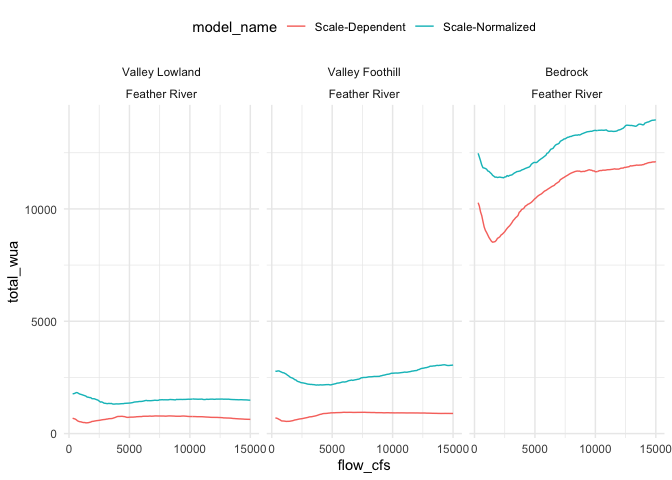
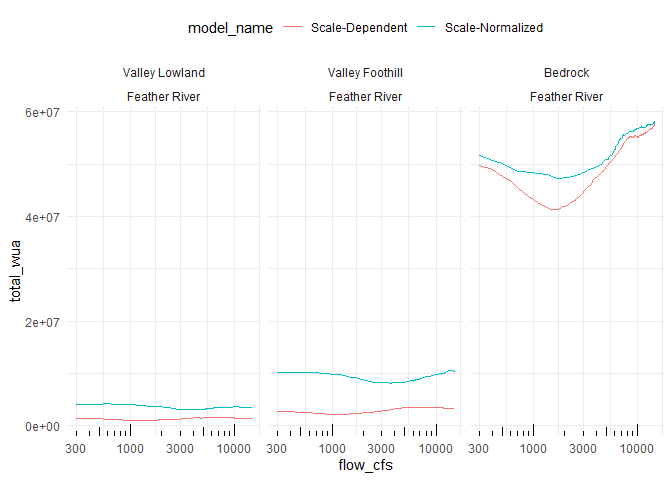
adding maps of wua estimates in both models; fixing total WUA calculation method; log scale

diff --git a/data-raw/scripts/model-type-comparison.md b/data-raw/scripts/model-type-comparison.md
@@ -18,21 +18,25 @@ at different geographic scales.
 ``` r
 # load the data
 
-wuas <- habistat::wua_predicted
+# wuas <- habistat::wua_predicted
+# 
+# hqt_gradient_class <- readRDS(here::here("data-raw", "results", "hqt_gradient_class.Rds"))
+# 
+# hqt_cls <- habistat::flowline_geom |>
+#   st_zm() |>
+#   st_transform("ESRI:102039") |> 
+#   st_point_on_surface() |>
+#   st_join(hqt_gradient_class) |>
+#   st_drop_geometry() |> 
+#   select(comid, hqt_gradient_class) |> 
+#   mutate(hqt_gradient_class = coalesce(hqt_gradient_class, "Bedrock"),
+#          hqt_gradient_class = factor(hqt_gradient_class, levels=c("Valley Lowland", "Valley Foothill", "Bedrock"))) 
+# 
+# wuas_merge <- wuas |> left_join(hqt_cls) |> glimpse()
 
-hqt_gradient_class <- readRDS(here::here("data-raw", "results", "hqt_gradient_class.Rds"))
-
-hqt_cls <- habistat::flowline_geom |>
-  st_zm() |>
-  st_transform("ESRI:102039") |> 
-  st_point_on_surface() |>
-  st_join(hqt_gradient_class) |>
-  st_drop_geometry() |> 
-  select(comid, hqt_gradient_class) |> 
-  mutate(hqt_gradient_class = coalesce(hqt_gradient_class, "Bedrock"),
-         hqt_gradient_class = factor(hqt_gradient_class, levels=c("Valley Lowland", "Valley Foothill", "Bedrock"))) 
-
-wuas_merge <- wuas |> left_join(hqt_cls) |> glimpse()
+wuas_merge <- habistat::wua_predicted |> 
+  left_join(habistat::flowline_attr |> select(comid, hqt_gradient_class)) |>
+  glimpse()
 ```
 
     ## Rows: 4,987,896
@@ -57,12 +61,13 @@ Explore the WUAs but different groups
 # SN = scale normalized
 # TODO: i want no post-hoc baseflow removal, is this logic correct?
 rearing_wua_grouped <- wuas_merge |> 
-  filter(model_bfc == TRUE,
+  filter(model_bfc == FALSE, # FALSE = training data does not have baseflow channel = baseflow channel was removed
          habitat == "rearing") |> 
   mutate(model_name = case_when(model_name == "SD" ~ "Scale-Dependent",
-                                model_name == "SN" ~ "Scale-Normalized")) |> 
+                                model_name == "SN" ~ "Scale-Normalized"),
+         total_wua = wua_per_lf_pred * reach_length_ft) |> 
   group_by(model_name, flow_cfs, watershed_level_3, habitat, hqt_gradient_class) |> 
-  summarise(total_wua = sum(wua_per_lf_pred))
+  summarise(total_wua = sum(total_wua))
 ```
 
     ## `summarise()` has grouped output by 'model_name', 'flow_cfs',
@@ -76,6 +81,7 @@ rearing_wua_grouped |>
   ggplot() + 
   geom_line(aes(x = flow_cfs, y = total_wua, color = model_name)) +
   theme(legend.position = "top")+
+  scale_x_log10() + annotation_logticks(sides = "b") +
   facet_wrap(~hqt_gradient_class) +
   ggtitle("Rearing: all watersheds grouped by HQT class")
 ```
@@ -91,6 +97,7 @@ rearing_wua_grouped |>
   ggplot() + 
   geom_line(aes(x = flow_cfs, y = total_wua, color = model_name)) +
   theme(legend.position = "top")+
+  scale_x_log10() + annotation_logticks(sides = "b") +
   facet_wrap(~hqt_gradient_class + watershed_level_3)
 ```
 
@@ -102,6 +109,7 @@ rearing_wua_grouped |>
   ggplot() + 
   geom_line(aes(x = flow_cfs, y = total_wua, color = model_name)) +
   theme(legend.position = "top")+
+  scale_x_log10() + annotation_logticks(sides = "b") +
   facet_wrap(~hqt_gradient_class + watershed_level_3)
 ```
 
@@ -113,6 +121,7 @@ rearing_wua_grouped |>
   ggplot() + 
   geom_line(aes(x = flow_cfs, y = total_wua, color = model_name)) +
   theme(legend.position = "top")+
+  scale_x_log10() + annotation_logticks(sides = "b") +
   facet_wrap(~hqt_gradient_class + watershed_level_3)
 ```
 
@@ -123,14 +132,14 @@ rearing_wua_grouped |>
 ``` r
 # SD = scale dependent
 # SN = scale normalized
-# TODO: i want no post-hoc baseflow removal, is this logic correct?
 spawning_wua_grouped <- wuas_merge |> 
   filter(model_bfc == TRUE,
          habitat == "spawning") |> 
   mutate(model_name = case_when(model_name == "SD" ~ "Scale-Dependent",
-                                model_name == "SN" ~ "Scale-Normalized")) |> 
+                                model_name == "SN" ~ "Scale-Normalized"),
+         total_wua = wua_per_lf_pred * reach_length_ft) |> 
   group_by(model_name, flow_cfs, watershed_level_3, habitat, hqt_gradient_class) |> 
-  summarise(total_wua = sum(wua_per_lf_pred))
+  summarise(total_wua = sum(total_wua))
 ```
 
     ## `summarise()` has grouped output by 'model_name', 'flow_cfs',
@@ -144,8 +153,9 @@ spawning_wua_grouped |>
   ggplot() + 
   geom_line(aes(x = flow_cfs, y = total_wua, color = model_name)) +
   theme(legend.position = "top")+
-  facet_wrap(~hqt_gradient_class) +
-  ggtitle("Spawning: all watersheds grouped by HQT class")
+  facet_wrap(~hqt_gradient_class) + 
+  scale_x_log10() + annotation_logticks(sides = "b") +
+  ggtitle("Spawning: all watersheds grouped by HQT class") 
 ```
 
     ## `summarise()` has grouped output by 'hqt_gradient_class', 'flow_cfs'. You can
@@ -159,6 +169,7 @@ spawning_wua_grouped |>
   ggplot() + 
   geom_line(aes(x = flow_cfs, y = total_wua, color = model_name)) +
   theme(legend.position = "top")+
+  scale_x_log10() + annotation_logticks(sides = "b") +
   facet_wrap(~hqt_gradient_class + watershed_level_3)
 ```
 
@@ -170,6 +181,7 @@ spawning_wua_grouped |>
   ggplot() + 
   geom_line(aes(x = flow_cfs, y = total_wua, color = model_name)) +
   theme(legend.position = "top")+
+  scale_x_log10() + annotation_logticks(sides = "b") +
   facet_wrap(~hqt_gradient_class + watershed_level_3)
 ```
 
@@ -181,7 +193,74 @@ spawning_wua_grouped |>
   ggplot() + 
   geom_line(aes(x = flow_cfs, y = total_wua, color = model_name)) +
   theme(legend.position = "top")+
+  scale_x_log10() + annotation_logticks(sides = "b") +
   facet_wrap(~hqt_gradient_class + watershed_level_3)
 ```
 
 ![](model-type-comparison_files/figure-gfm/unnamed-chunk-3-4.png)<!-- -->
+
+## Spatial Distribution
+
+``` r
+habistat::flowline_geom_proj |>
+  inner_join(habistat::flowline_attr |> select(comid, da_scalar_maf)) |>
+  filter(comid %in% habistat::wua_predicted$comid) |>
+  ggplot() +
+  geom_sf(aes(color = da_scalar_maf)) + 
+  theme(legend.key.height = unit(48, "pt"),
+        axis.text = element_blank()) + 
+  ggtitle("Flow Scalar (Drainage Area * Mean Annual Precip)") + 
+  scale_color_viridis_c(name = "Million Acre-Feet", 
+                        direction = -1, 
+                        trans = habistat::trans_semiIHS, 
+                        breaks = c(0.1, 1, 10, 100), 
+                        limits = c(0.1, 100), na.value = "darkorange")
+```
+
+    ## Joining with `by = join_by(comid)`
+
+![](model-type-comparison_files/figure-gfm/map-comparison-scalar-1.png)<!-- -->
+
+``` r
+habistat::flowline_geom_proj |>
+  inner_join(habistat::wua_predicted |> 
+               filter(flow_cfs %in% c(300, 1000, 3000, 10000)) |>
+               #filter((habitat=="rearing" & !model_bfc) | (habitat=="spawning" & model_bfc))
+               filter((habitat=="rearing" & !model_bfc)), by=join_by(comid)) |>
+  ggplot() +
+  facet_grid(rows = vars(model_name), cols = vars(flow_cfs), switch = "both") + 
+  geom_sf(aes(color = wua_per_lf_pred)) + 
+  scale_color_gradientn(name = "WUA per LF",
+                        limits = c(0, 300),
+                        breaks = c(0, 1, 3, 10, 30, 100, 300), 
+                        trans = habistat::trans_semiIHS,
+                        values = scales::rescale(habistat::semiIHS(c(0, 1, 3, 10, 30, 100, 300))),
+                        colors = c("darkblue", "turquoise", "gold", "darkorange", "darkred", "violetred4", "mediumvioletred")) + 
+  theme(legend.key.height = unit(48, "pt"),
+        axis.text = element_blank()) + 
+  xlab("Flow (cfs)") + ylab("Model Type") + ggtitle("Rearing")
+```
+
+![](model-type-comparison_files/figure-gfm/map-comparison-rearing-1.png)<!-- -->
+
+``` r
+habistat::flowline_geom_proj |>
+  inner_join(habistat::wua_predicted |> 
+               filter(flow_cfs %in% c(300, 1000, 3000, 10000)) |>
+               #filter((habitat=="rearing" & !model_bfc) | (habitat=="spawning" & model_bfc))
+               filter((habitat=="spawning" & model_bfc)), by=join_by(comid)) |>
+  ggplot() +
+  facet_grid(rows = vars(model_name), cols = vars(flow_cfs), switch = "both") + 
+  geom_sf(aes(color = wua_per_lf_pred)) + 
+  scale_color_gradientn(name = "WUA per LF",
+                        limits = c(0, 300),
+                        breaks = c(0, 1, 3, 10, 30, 100, 300), 
+                        trans = habistat::trans_semiIHS,
+                        values = scales::rescale(habistat::semiIHS(c(0, 1, 3, 10, 30, 100, 300))),
+                        colors = c("darkblue", "turquoise", "gold", "darkorange", "darkred", "violetred4", "mediumvioletred")) + 
+  theme(legend.key.height = unit(48, "pt"),
+        axis.text = element_blank()) + 
+  xlab("Flow (cfs)") + ylab("Model Type") + ggtitle("Spawning")
+```
+
+![](model-type-comparison_files/figure-gfm/map-comparison-spawning-1.png)<!-- -->
